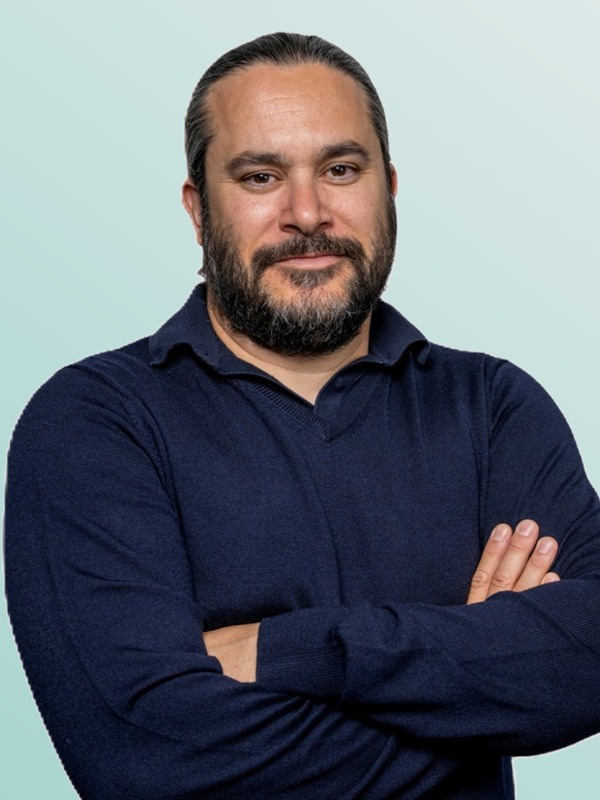
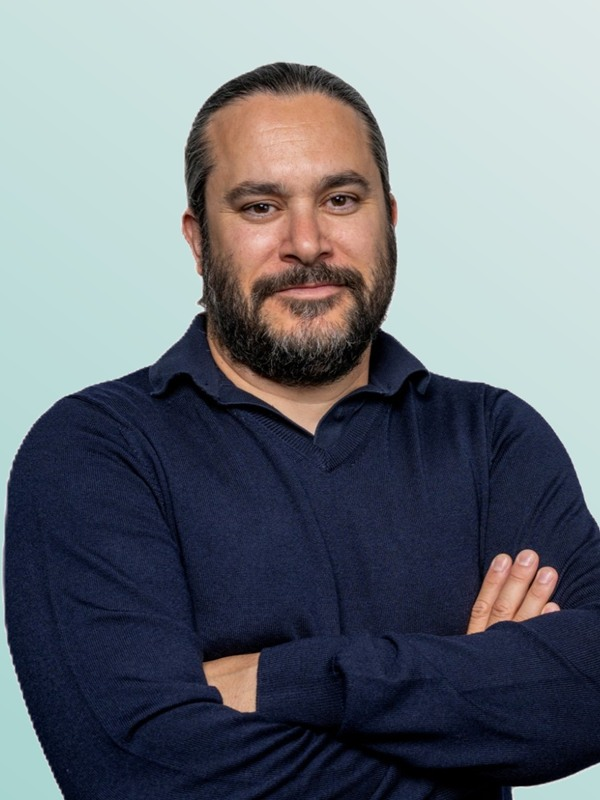
Fix encoding corruption and Samuel photo head crop
- Restore index.html from clean baseline to fix all double-encoded UTF-8 characters
- Re-apply Samuel bio text update using proper System.IO UTF-8 read/write
- team-sk.jpg: increase yShift to 60px so head clears the frame top

diff --git a/index.html b/index.html
@@ -3,13 +3,13 @@
 <head>
   <meta charset="UTF-8" />
   <meta name="viewport" content="width=device-width, initial-scale=1.0" />
-  <title>Ashcairn â€” Technology Risk &amp; Resilience</title>
+  <title>Ashcairn — Technology Risk &amp; Resilience</title>
   <link rel="preconnect" href="https://fonts.googleapis.com" />
   <link rel="preconnect" href="https://fonts.gstatic.com" crossorigin />
   <link href="https://fonts.googleapis.com/css2?family=Sora:wght@300;400;500;600&family=Inter:ital,wght@0,300;0,400;0,500;0,600;0,900;1,300&display=swap" rel="stylesheet" />
   <style>
 
-    /* â”€â”€ Reset â”€â”€â”€â”€â”€â”€â”€â”€â”€â”€â”€â”€â”€â”€â”€â”€â”€â”€â”€â”€â”€â”€â”€â”€â”€â”€â”€â”€â”€â”€â”€â”€â”€â”€â”€â”€â”€â”€â”€â”€â”€â”€â”€â”€â”€â”€â”€â”€â”€â”€â”€ */
+    /* ── Reset ─────────────────────────────────────────────────── */
     *, *::before, *::after { box-sizing: border-box; margin: 0; padding: 0; }
 
     :root {
@@ -65,7 +65,7 @@
     .section-deep { padding: 124px 0; background: var(--bg-deep); }
     .section-warm { padding: 124px 0; background: var(--teal-light); }
 
-    /* â”€â”€ Fade-in â”€â”€â”€â”€â”€â”€â”€â”€â”€â”€â”€â”€â”€â”€â”€â”€â”€â”€â”€â”€â”€â”€â”€â”€â”€â”€â”€â”€â”€â”€â”€â”€â”€â”€â”€â”€â”€â”€â”€â”€â”€â”€â”€â”€â”€â”€â”€â”€â”€ */
+    /* ── Fade-in ───────────────────────────────────────────────── */
     .fade-in {
       opacity: 0;
       transform: translateY(12px);
@@ -74,7 +74,7 @@
     }
     .fade-in.visible { opacity: 1; transform: translateY(0); }
 
-    /* â”€â”€ NAV â”€â”€â”€â”€â”€â”€â”€â”€â”€â”€â”€â”€â”€â”€â”€â”€â”€â”€â”€â”€â”€â”€â”€â”€â”€â”€â”€â”€â”€â”€â”€â”€â”€â”€â”€â”€â”€â”€â”€â”€â”€â”€â”€â”€â”€â”€â”€â”€â”€â”€â”€â”€â”€ */
+    /* ── NAV ───────────────────────────────────────────────────── */
     nav {
       position: fixed;
       top: 0; left: 0; right: 0;
@@ -145,7 +145,7 @@
 
     .nav-cta:hover { background: var(--teal) !important; color: white !important; }
 
-    /* â”€â”€ HERO â”€â”€â”€â”€â”€â”€â”€â”€â”€â”€â”€â”€â”€â”€â”€â”€â”€â”€â”€â”€â”€â”€â”€â”€â”€â”€â”€â”€â”€â”€â”€â”€â”€â”€â”€â”€â”€â”€â”€â”€â”€â”€â”€â”€â”€â”€â”€â”€â”€â”€â”€â”€ */
+    /* ── HERO ──────────────────────────────────────────────────── */
     #hero {
       min-height: 100vh;
       display: flex;
@@ -299,7 +299,7 @@
 
     .btn-ghost:hover { color: var(--teal); border-color: var(--teal); }
 
-    /* â”€â”€ SECTION HEADERS â”€â”€â”€â”€â”€â”€â”€â”€â”€â”€â”€â”€â”€â”€â”€â”€â”€â”€â”€â”€â”€â”€â”€â”€â”€â”€â”€â”€â”€â”€â”€â”€â”€â”€â”€â”€â”€â”€â”€â”€â”€ */
+    /* ── SECTION HEADERS ───────────────────────────────────────── */
     .section-header {
       display: grid;
       grid-template-columns: 200px 1fr;
@@ -328,7 +328,7 @@
       margin-top: 14px;
     }
 
-    /* â”€â”€ WHO WE ARE â”€â”€â”€â”€â”€â”€â”€â”€â”€â”€â”€â”€â”€â”€â”€â”€â”€â”€â”€â”€â”€â”€â”€â”€â”€â”€â”€â”€â”€â”€â”€â”€â”€â”€â”€â”€â”€â”€â”€â”€â”€â”€â”€â”€â”€â”€ */
+    /* ── WHO WE ARE ────────────────────────────────────────────── */
     .who-quote {
       margin-top: 48px;
       padding: 36px 48px;
@@ -362,7 +362,7 @@
       position: relative;
     }
 
-    /* â”€â”€ SERVICES â”€â”€â”€â”€â”€â”€â”€â”€â”€â”€â”€â”€â”€â”€â”€â”€â”€â”€â”€â”€â”€â”€â”€â”€â”€â”€â”€â”€â”€â”€â”€â”€â”€â”€â”€â”€â”€â”€â”€â”€â”€â”€â”€â”€â”€â”€â”€â”€ */
+    /* ── SERVICES ──────────────────────────────────────────────── */
     .services-grid {
       display: grid;
       grid-template-columns: repeat(3, 1fr);
@@ -410,7 +410,7 @@
       line-height: 1.8;
     }
 
-    /* â”€â”€ TEAM â”€â”€â”€â”€â”€â”€â”€â”€â”€â”€â”€â”€â”€â”€â”€â”€â”€â”€â”€â”€â”€â”€â”€â”€â”€â”€â”€â”€â”€â”€â”€â”€â”€â”€â”€â”€â”€â”€â”€â”€â”€â”€â”€â”€â”€â”€â”€â”€â”€â”€â”€â”€ */
+    /* ── TEAM ──────────────────────────────────────────────────── */
 
     .team-grid {
       display: grid;
@@ -531,7 +531,7 @@
       margin-bottom: 12px;
     }
 
-    /* â”€â”€ SPECIALISMS â”€â”€â”€â”€â”€â”€â”€â”€â”€â”€â”€â”€â”€â”€â”€â”€â”€â”€â”€â”€â”€â”€â”€â”€â”€â”€â”€â”€â”€â”€â”€â”€â”€â”€â”€â”€â”€â”€â”€â”€â”€â”€â”€â”€â”€ */
+    /* ── SPECIALISMS ───────────────────────────────────────────── */
     .spec-list {
       display: grid;
       grid-template-columns: repeat(3, 1fr);
@@ -580,7 +580,7 @@
       line-height: 1.85;
     }
 
-    /* â”€â”€ SELECTED WORK â”€â”€â”€â”€â”€â”€â”€â”€â”€â”€â”€â”€â”€â”€â”€â”€â”€â”€â”€â”€â”€â”€â”€â”€â”€â”€â”€â”€â”€â”€â”€â”€â”€â”€â”€â”€â”€â”€â”€â”€â”€â”€â”€ */
+    /* ── SELECTED WORK ─────────────────────────────────────────── */
     .tombstone-grid {
       display: grid;
       grid-template-columns: repeat(4, 1fr);
@@ -693,7 +693,7 @@
     }
 
     .cs-d-item::before {
-      content: 'â†’';
+      content: '→';
       color: var(--teal);
       font-family: var(--font-mono);
       font-size: 11px;
@@ -725,7 +725,7 @@
     }
 
     .cs-outcome::before {
-      content: 'âœ“';
+      content: '✓';
       color: var(--teal);
       font-family: var(--font-mono);
       font-weight: 500;
@@ -733,7 +733,7 @@
       flex-shrink: 0;
     }
 
-    /* â”€â”€ CONTACT â”€â”€â”€â”€â”€â”€â”€â”€â”€â”€â”€â”€â”€â”€â”€â”€â”€â”€â”€â”€â”€â”€â”€â”€â”€â”€â”€â”€â”€â”€â”€â”€â”€â”€â”€â”€â”€â”€â”€â”€â”€â”€â”€â”€â”€â”€â”€â”€â”€ */
+    /* ── CONTACT ───────────────────────────────────────────────── */
     #contact {
       background: var(--ink);
       background-image: radial-gradient(ellipse at 95% 10%, rgba(13,148,136,0.10) 0%, transparent 55%);
@@ -820,7 +820,7 @@
 
     .btn-contact:hover { background: var(--teal); color: white; gap: 16px; }
 
-    /* â”€â”€ FOOTER â”€â”€â”€â”€â”€â”€â”€â”€â”€â”€â”€â”€â”€â”€â”€â”€â”€â”€â”€â”€â”€â”€â”€â”€â”€â”€â”€â”€â”€â”€â”€â”€â”€â”€â”€â”€â”€â”€â”€â”€â”€â”€â”€â”€â”€â”€â”€â”€â”€â”€ */
+    /* ── FOOTER ────────────────────────────────────────────────── */
     footer {
       background: #0f0f0f;
       border-top: 1px solid rgba(13,148,136,0.18);
@@ -849,7 +849,7 @@
       letter-spacing: 0.05em;
     }
 
-    /* â”€â”€ Responsive â”€â”€â”€â”€â”€â”€â”€â”€â”€â”€â”€â”€â”€â”€â”€â”€â”€â”€â”€â”€â”€â”€â”€â”€â”€â”€â”€â”€â”€â”€â”€â”€â”€â”€â”€â”€â”€â”€â”€â”€â”€â”€â”€â”€â”€â”€ */
+    /* ── Responsive ────────────────────────────────────────────── */
     @media (max-width: 1024px) {
       .team-grid { grid-template-columns: repeat(2, 1fr); gap: 40px; }
     }
@@ -950,7 +950,7 @@
     <div class="container">
       <div class="hero-inner">
         <div class="hero-label fade-in">
-          <span class="label">Technology Risk Â· Resilience Â· Advisory</span>
+          <span class="label">Technology Risk · Resilience · Advisory</span>
         </div>
         <h1 class="hero-headline fade-in">
           Understand<br>
@@ -964,8 +964,8 @@
           to handle what comes next.
         </p>
         <div class="hero-actions fade-in">
-          <a href="#contact" class="btn-primary">Work with us â†’</a>
-          <a href="#what" class="btn-ghost">What we do â†’</a>
+          <a href="#contact" class="btn-primary">Work with us →</a>
+          <a href="#what" class="btn-ghost">What we do →</a>
         </div>
       </div>
     </div>
@@ -1004,7 +1004,7 @@
         <div class="service-card fade-in">
           <div class="service-title">Understand</div>
           <div class="service-subtitle">The threats you actually face</div>
-          <p class="service-desc">We identify the specific threats you face: who, how, and from where â€” whether from sophisticated cyber crime groups, insiders and accidents, through to changing regulations.</p>
+          <p class="service-desc">We identify the specific threats you face: who, how, and from where — whether from sophisticated cyber crime groups, insiders and accidents, through to changing regulations.</p>
         </div>
 
         <div class="service-card fade-in">
@@ -1032,7 +1032,7 @@
         </div>
         <div class="fade-in">
           <h2 class="section-title">The people behind the advice.</h2>
-          <p class="section-body">Careers built across the major advisory firms. When you work with Ashcairn, you work with us â€” directly.</p>
+          <p class="section-body">Careers built across the major advisory firms. When you work with Ashcairn, you work with us — directly.</p>
         </div>
       </div>
       <div class="team-grid">
@@ -1168,7 +1168,7 @@
           <div class="tombstone-client">London-based international private equity firm</div>
         </div>
       </div>
-      <p class="work-note fade-in">A non-exhaustive selection of engagements Â· Further detail available on request</p>
+      <p class="work-note fade-in">A non-exhaustive selection of engagements · Further detail available on request</p>
 
       <!-- Featured case study -->
       <div class="cs-label fade-in"><span class="label">Featured case study</span></div>
@@ -1181,7 +1181,7 @@
           </div>
           <div class="cs-block">
             <div class="cs-block-label">How we worked</div>
-            <p>We went to the sites and worked directly with the people running them. Using a business risk-based methodology, we worked out what an incident would actually cost â€” then designed a right-sized security approach built around what the client could genuinely deliver. We stripped back anything that existed to look good rather than to work.</p>
+            <p>We went to the sites and worked directly with the people running them. Using a business risk-based methodology, we worked out what an incident would actually cost — then designed a right-sized security approach built around what the client could genuinely deliver. We stripped back anything that existed to look good rather than to work.</p>
           </div>
           <div class="cs-block">
             <div class="cs-block-label">What we delivered</div>
@@ -1233,7 +1233,7 @@
             one, reach out.
           </p>
           <a href="mailto:info@ashcairn.com" class="btn-contact">
-            Start a conversation â†’
+            Start a conversation →
           </a>
         </div>
       </div>
@@ -1245,7 +1245,7 @@
     <span class="footer-logo">
       <img src="logos/Ashcairn%20Logo%20Light.svg" alt="Ashcairn" />
     </span>
-    <span class="footer-right">Â© Ashcairn Ltd Â· All rights reserved</span>
+    <span class="footer-right">© Ashcairn Ltd · All rights reserved</span>
   </footer>
 
   <script>
@@ -1273,4 +1273,3 @@
   </script>
 </body>
 </html>
-
